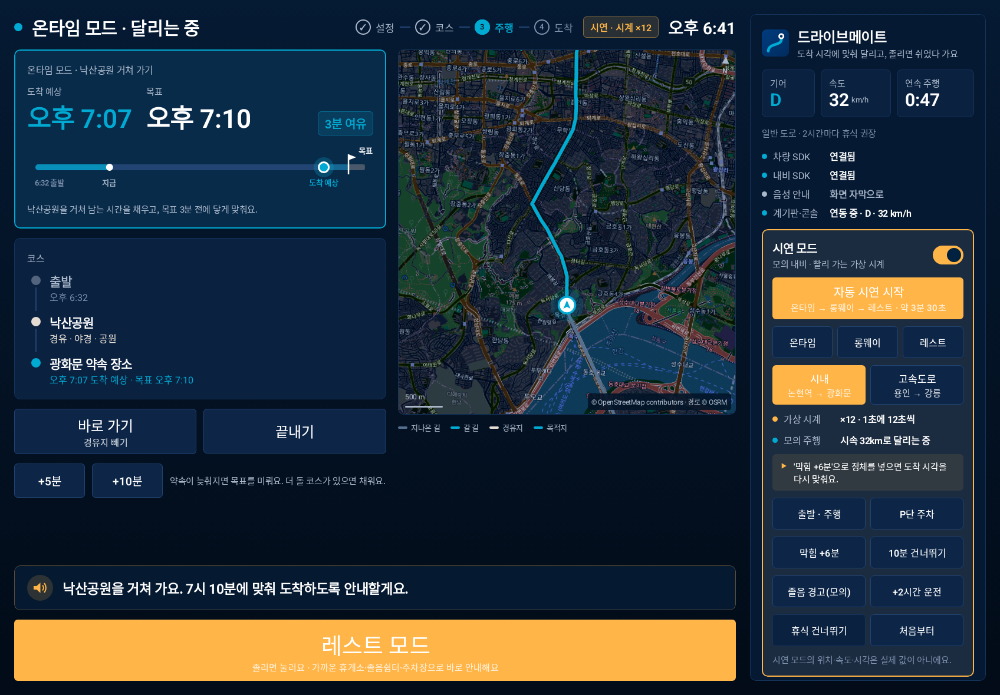
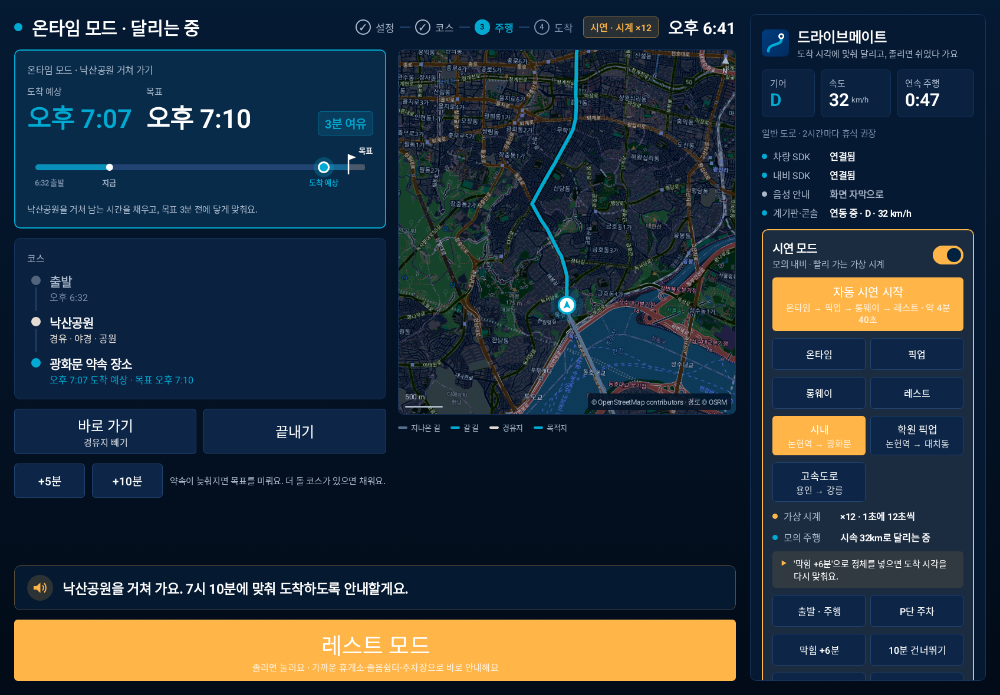
README 화면 캡처: 픽업 알림 11·12번 추가, 나머지도 지금 화면으로 다시 (시연 카드 두 줄, 장면 번호 n/36)
- 픽업 알림 켜기 버튼의 아랫줄을 줄여 한 줄에 들어가게
- 자동 시연 해설: 픽업 알림 카드 위치를 '미니맵 아래'로

Changed region(s): [[0.775, 0.3928, 0.961, 0.9971]]

diff --git a/app/src/main/java/kr/contest/pleosapp/app/AutoDemo.kt b/app/src/main/java/kr/contest/pleosapp/app/AutoDemo.kt
@@ -535,7 +535,7 @@ object AutoDemoScript {
                 buildString {
                     append("내비 경로에 경유지가 들어갔어요. ")
                     v.drive.arrivalEstimate?.let { append("도착 예상 ${spoken(it)}. ") }
-                    append("달리는 화면 오른쪽 지도 아래에 픽업 알림 카드가 생겨요.")
+                    append("달리는 화면의 미니맵 아래에 픽업 알림 카드가 생겨요.")
                 }
             },
             readMs = 6_500L,

diff --git a/app/src/main/java/kr/contest/pleosapp/ui/PickupPanel.kt b/app/src/main/java/kr/contest/pleosapp/ui/PickupPanel.kt
@@ -62,7 +62,7 @@ internal fun PickupToggle(ui: UiState, actions: RestMateActions, tone: Tone) {
             if (on) tone else Tone.NEUTRAL,
             minHeight = 64.dp,
             textSize = 20.sp,
-            sub = "$name · 도착 3분 전 · 세운 곳 · 자리 없음",
+            sub = "$name · 3분 전 · 세운 곳 · 자리 없음",
         )
     }
 }

diff --git a/README.md b/README.md
@@ -73,7 +73,7 @@
 | ![자동 시연 해설](docs/screens/7-auto-narration.png) | ![버튼 짚기](docs/screens/8-auto-cue.png) |
 | **밤 화면**: 차가 야간 모드일 때 (달리는 중) | **밤 화면**: 쉼터 안내 |
 | ![밤 화면 달리는 중](docs/screens/9-night-active.png) | ![밤 화면 쉼터 안내](docs/screens/10-night-rest.png) |
-| **픽업 알림**: 도착 3분 전 문자 (자동 시연 해설과 함께) | **픽업 알림**: 자리 없어 한 바퀴 돌고 와서 세운 곳을 다시 보냄 |
+| **픽업 알림**: 도착 3분 전 문자 (자동 시연 해설과 함께) | **픽업 알림**: 자리 없어 한 바퀴 돌고 와서 세운 곳을 다시 띄움 |
 | ![픽업 알림 도착 3분 전](docs/screens/11-pickup-active.png) | ![픽업 알림 세운 곳](docs/screens/12-pickup-arrived.png) |
 
 ## 쓰는 SDK
